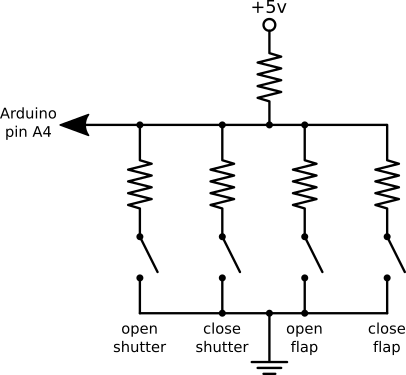
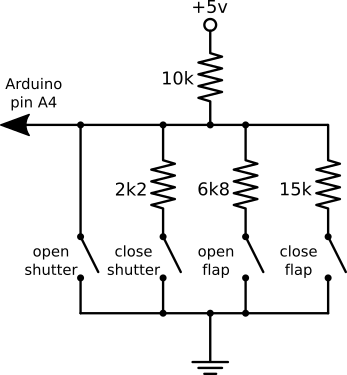
Define SW_A2 and SW_B2 as normally open. Update keyboard diagram

diff --git a/DomeShutter/shutter.cpp b/DomeShutter/shutter.cpp
@@ -24,8 +24,8 @@ Shutter::Shutter(Motor *motorPtr, int closedSwitch, int openSwitch,
         unsigned long timeout, interFn checkInterference)
 {
     motor = motorPtr;
-    swClosed = closedSwitch;
-    swOpen = openSwitch;
+    swClosed = closedSwitch;    // normally closed (1 if shutter is closed)
+    swOpen = openSwitch;        // normally open (0 if shutter is fully open)
     runTimeout = timeout;
     interference = checkInterference;
     nextAction = DO_NONE;
@@ -37,7 +37,7 @@ void Shutter::initState()
 {
     if (digitalRead(swClosed))
         state = ST_CLOSED;
-    else if (digitalRead(swOpen))
+    else if (!digitalRead(swOpen))
         state = ST_OPEN;
     else
         state = ST_ABORTED;
@@ -91,7 +91,7 @@ void Shutter::update()
         else
             motor->run(MOTOR_OPEN, SPEED);
 
-        if (digitalRead(swOpen)) {
+        if (!digitalRead(swOpen)) {
             state = ST_OPEN;
             motor->brake();
         } else if (action == DO_ABORT || action == DO_OPEN) {
